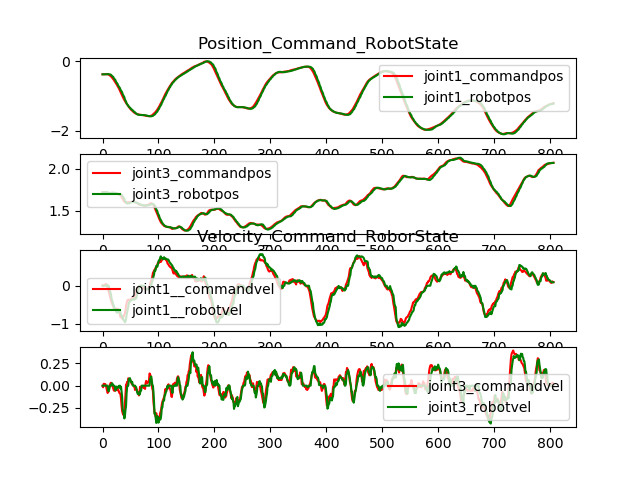
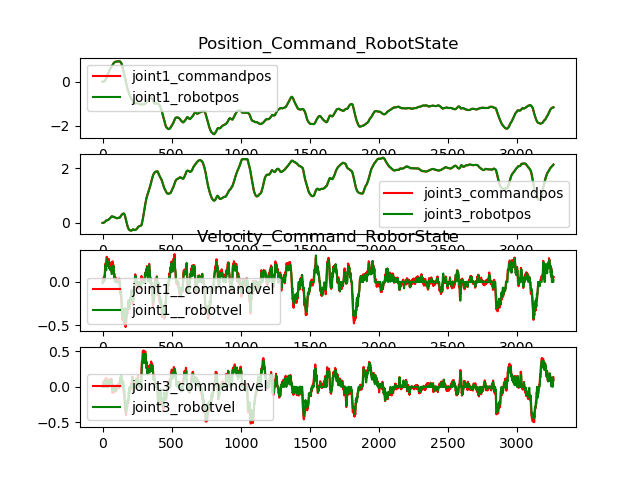
ReacherMoveSDF V1.0

diff --git a/storm_ros/scripts/ReacherMoveSDF.py b/storm_ros/scripts/ReacherMoveSDF.py
@@ -6,10 +6,12 @@
 """
 
 from ReacherBase import ReacherEnvBase
+
 import torch
 import numpy as np
 import rospy
 from storm_kit.mpc.task.reacher_task import ReacherTask
+from storm_ros.utils.tf_translation import get_world_T_cam
 from storm_examples.multimodal_franka.utils import LimitedQueue , IKProc
 import queue
 
@@ -40,7 +42,7 @@ class MPCReacherNode(ReacherEnvBase):
         #      [0.45, -0.45, 0.45],
         #      [0.45,  0.45, 0.45],
         #      ])
-        x,y,z = 0.45 , 0.45 , 0.45
+        x,y,z = 0.30 , 0.55 , 0.30
         self.goal_list = [
              [x,y,z],
              [x,-y,z]]
@@ -53,11 +55,12 @@ class MPCReacherNode(ReacherEnvBase):
         self.ik_mSolve = ik_mSolve
         self.goal_ee_transform = np.eye(4)
         self.rollout_fn = self.policy.controller.rollout_fn
+        self.world_T_cam = get_world_T_cam() # transform : "world", "rgb_camera_link"
 
     def control_loop(self):
         rospy.loginfo('[MPCPoseReacher]: Controller running')
         start_t = rospy.get_time()
-        lap_count = 5 # 跑5轮次
+        lap_count = 8 # 跑5轮次
         self.jnq_des = np.zeros(7)
         opt_step_count = 0 
         opt_time_sum = 0 
@@ -69,8 +72,18 @@ class MPCReacherNode(ReacherEnvBase):
                 # TODO: scene_grid update at here ... 
                 # 1. transform pointcloud to world frame 
                 # 2. compute sdf from pointcloud 
-                tstep = rospy.get_time() - start_t
-                # TODO: can it get from topic? call robotmodel to get ee_pos may costly
+                # 更新scene_grid 
+                        # Assuming self.point_array is your original point cloud data
+                # It should have shape (N, 3) where N is the number of points
+                # Each row is a point (x, y, z)
+                point_array = np.hstack((self.point_array, np.ones((self.point_array.shape[0], 1))))  # Adding homogenous coordinate
+                transformed_points = np.dot(point_array, self.world_T_cam.T)  # Transform all points at once
+                self.point_array = transformed_points[:, :3]  # Removing the homogenous coordinate
+                # mpc_control.controller.rollout_fn.primitive_collision_cost.robot_world_coll.world_coll._compute_dynamic_sdfgrid(scene_pc)
+                self.collision_grid = self.rollout_fn.primitive_collision_cost.robot_world_coll.world_coll. \
+                                     _opt_compute_dynamic_voxeltosdf(self.point_array,visual = True)
+                
+                tstep = rospy.get_time() - start_t 
                 # 逆解获取请求发布 input_queue
                 qinit = self.robot_state['position']
                 self.goal_ee_transform[:3,3] = self.rollout_fn.goal_ee_pos.cpu().numpy()
@@ -92,8 +105,12 @@ class MPCReacherNode(ReacherEnvBase):
                 self.mpc_command.velocity = qd_des
                 self.command_pub.publish(self.mpc_command)
 
-                # self.visual_top_trajs()
+                self.visual_top_trajs()
                 self.traj_append()
+
+                collision_grid_pc = self.collision_grid.cpu().numpy() 
+                self.pub_pointcloud(collision_grid_pc, self.pub_env_pc)
+
                 # 逆解获取查询 output_queue
                 try :
                     output = self.ik_mSolve.output_queue.get()

diff --git a/storm_ros/scripts/ReacherBase.py b/storm_ros/scripts/ReacherBase.py
@@ -11,14 +11,12 @@ import sensor_msgs.point_cloud2 as pc2
 from sensor_msgs.msg import PointField
 from visualization_msgs.msg import Marker
 from geometry_msgs.msg import Point
-from storm_ros.utils.tf_translation import get_world_T_cam
 import matplotlib.pyplot as plt
 np.set_printoptions(precision=2)
 
 
 class ReacherEnvBase():
     def __init__(self):
-        # self.world_T_cam = get_world_T_cam() # transform : "world", "rgb_camera_link"
         self.pkg_path = "/home/zm/MotionPolicyNetworks/storm_ws/storm/storm_ros"
         self.storm_path = os.path.dirname(self.pkg_path)
         rospy.loginfo(self.storm_path)
@@ -137,7 +135,6 @@ class ReacherEnvBase():
             ee_goal_msg.pose.orientation.y,
             ee_goal_msg.pose.orientation.z])
         #check if goal was updated
-        # TODO: costly ! need "if" here
         if  (np.linalg.norm(self.last_ee_goal_pos - ee_goal_pos) > 0.0) or (
              np.linalg.norm(self.last_ee_goal_quat - ee_goal_quat) > 0.0):
             self.last_ee_goal_pos = ee_goal_pos
@@ -165,6 +162,8 @@ class ReacherEnvBase():
         pub_handle.publish(self.pc_msg)   
     
     def GoalUpdate(self):
+        
+        # TODO: can it get from topic? call robotmodel to get ee_pos may costly
         pose_state = self.rollout_fn.get_ee_pose(self.curr_state_tensor)
         cur_e_pos = np.ravel(pose_state['ee_pos_seq'].cpu().numpy())
         # cur_e_quat = np.ravel(pose_state['ee_quat_seq'].cpu().numpy())
@@ -194,7 +193,8 @@ class ReacherEnvBase():
         points = [Point(x=top_trajs[i][j][0], 
                         y=top_trajs[i][j][1], 
                         z=top_trajs[i][j][2]) 
-                for i in range(top_trajs.shape[0]) for j in range(top_trajs.shape[1])]
+                for i in range(1) for j in range(top_trajs.shape[1])]
+                # for i in range(top_trajs.shape[0]) for j in range(top_trajs.shape[1])]
             # 将点列表添加到marker消息中
         self.marker_EE_trajs.points = points
             # 更新header中的时间戳和ID

diff --git a/storm_kit/geom/sdf/world.py b/storm_kit/geom/sdf/world.py
@@ -246,7 +246,7 @@ class WorldGridCollision(WorldCollision):
         self.scene_sdf[unique_indices] = torch.tensor(0, **self.tensor_args)
         # step 5: flatten scene_sdf to 3d voxel grid
         self.scene_sdf_matrix = self.scene_sdf.view(int(self.num_voxels[0].item()), int(self.num_voxels[1].item()), int(self.num_voxels[2].item()))
-        # self.scene_sdf_matrix[:,:,0:3] = torch.tensor(0, **self.tensor_args) # safe ground 3*0.05 = 0.15m | real meachine
+        self.scene_sdf_matrix[:,:,0:2] = torch.tensor(0, **self.tensor_args) # safe ground 3*0.05 = 0.15m | real meachine
         # step 6: 计算内部点到外部点的距离变换 EDT 2Hz
         distances_inside = distance_transform_edt((self.scene_sdf_matrix).cpu())
         # version 1. direactly compute gradient
@@ -273,6 +273,8 @@ class WorldGridCollision(WorldCollision):
         self.sdf_potential_gradxyz = torch.cat([self.scene_sdf.unsqueeze(-1)]+[grad.view(-1, 1) for grad in gradients], dim=-1) # 32768*4
         if visual: # visual pointcloud  in voxel grid
             return self.pt_matrix[unique_indices]
+        
+        return None
         
     def get_scene_sdf_matrix(self):
         self.scene_sdf_matrix = self.scene_sdf.view(int(self.num_voxels[0].item()), int(self.num_voxels[1].item()), int(self.num_voxels[2].item()))

diff --git a/storm_ros/src/nodes/goal_publishers/interactive_marker_goal_publisher.py b/storm_ros/src/nodes/goal_publishers/interactive_marker_goal_publisher.py
@@ -63,7 +63,7 @@ class InteractiveMarkerGoalPub():
         self.int_marker.header.frame_id = self.fixed_frame #"panda_link0"
         self.int_marker.name = "goal_marker"
         self.int_marker.description = "End-effector Goal"
-        self.int_marker.scale = 0.2
+        self.int_marker.scale = 0.08
         # self.int_marker.pose.position = self.curr_goal_ros.pose.position
         self.int_marker.pose = self.ee_goal.pose
 
@@ -71,9 +71,9 @@ class InteractiveMarkerGoalPub():
         # create a grey box marker
         self.box_marker = Marker()
         self.box_marker.type = Marker.CUBE
-        self.box_marker.scale.x = 0.1
-        self.box_marker.scale.y = 0.1
-        self.box_marker.scale.z = 0.1
+        self.box_marker.scale.x = 0.05
+        self.box_marker.scale.y = 0.05
+        self.box_marker.scale.z = 0.05
         self.box_marker.color.r = 0.0
         self.box_marker.color.g = 0.5
         self.box_marker.color.b = 0.5
